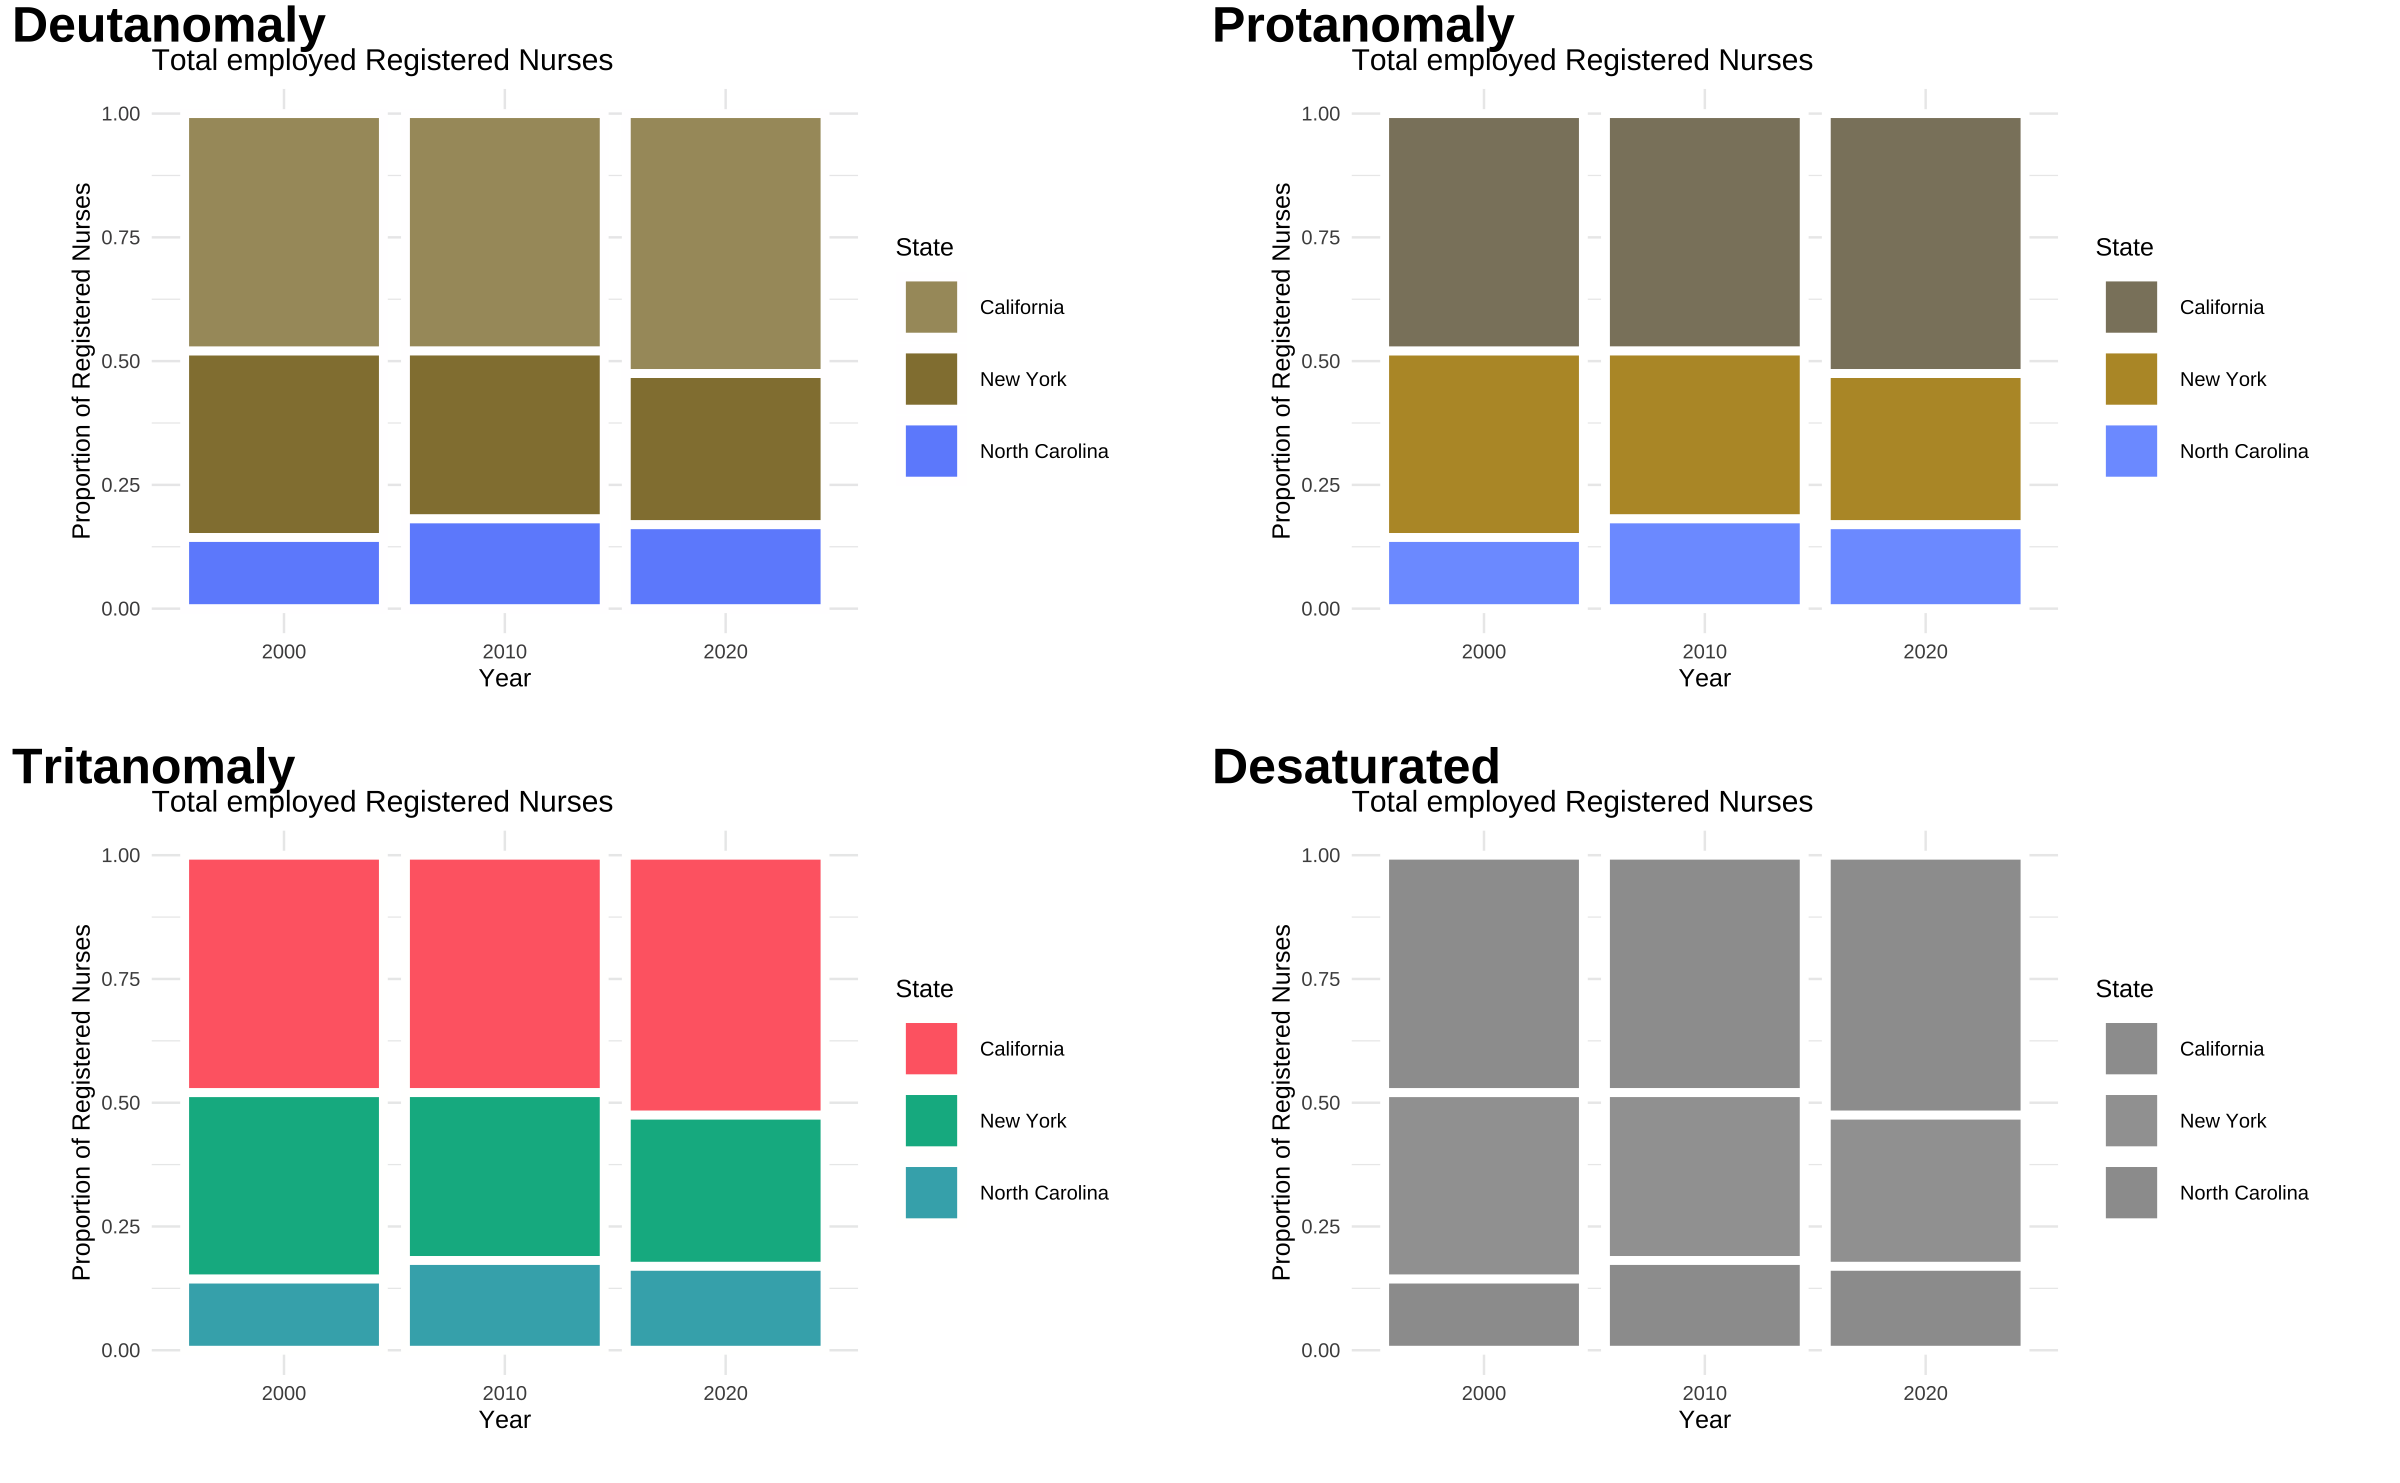
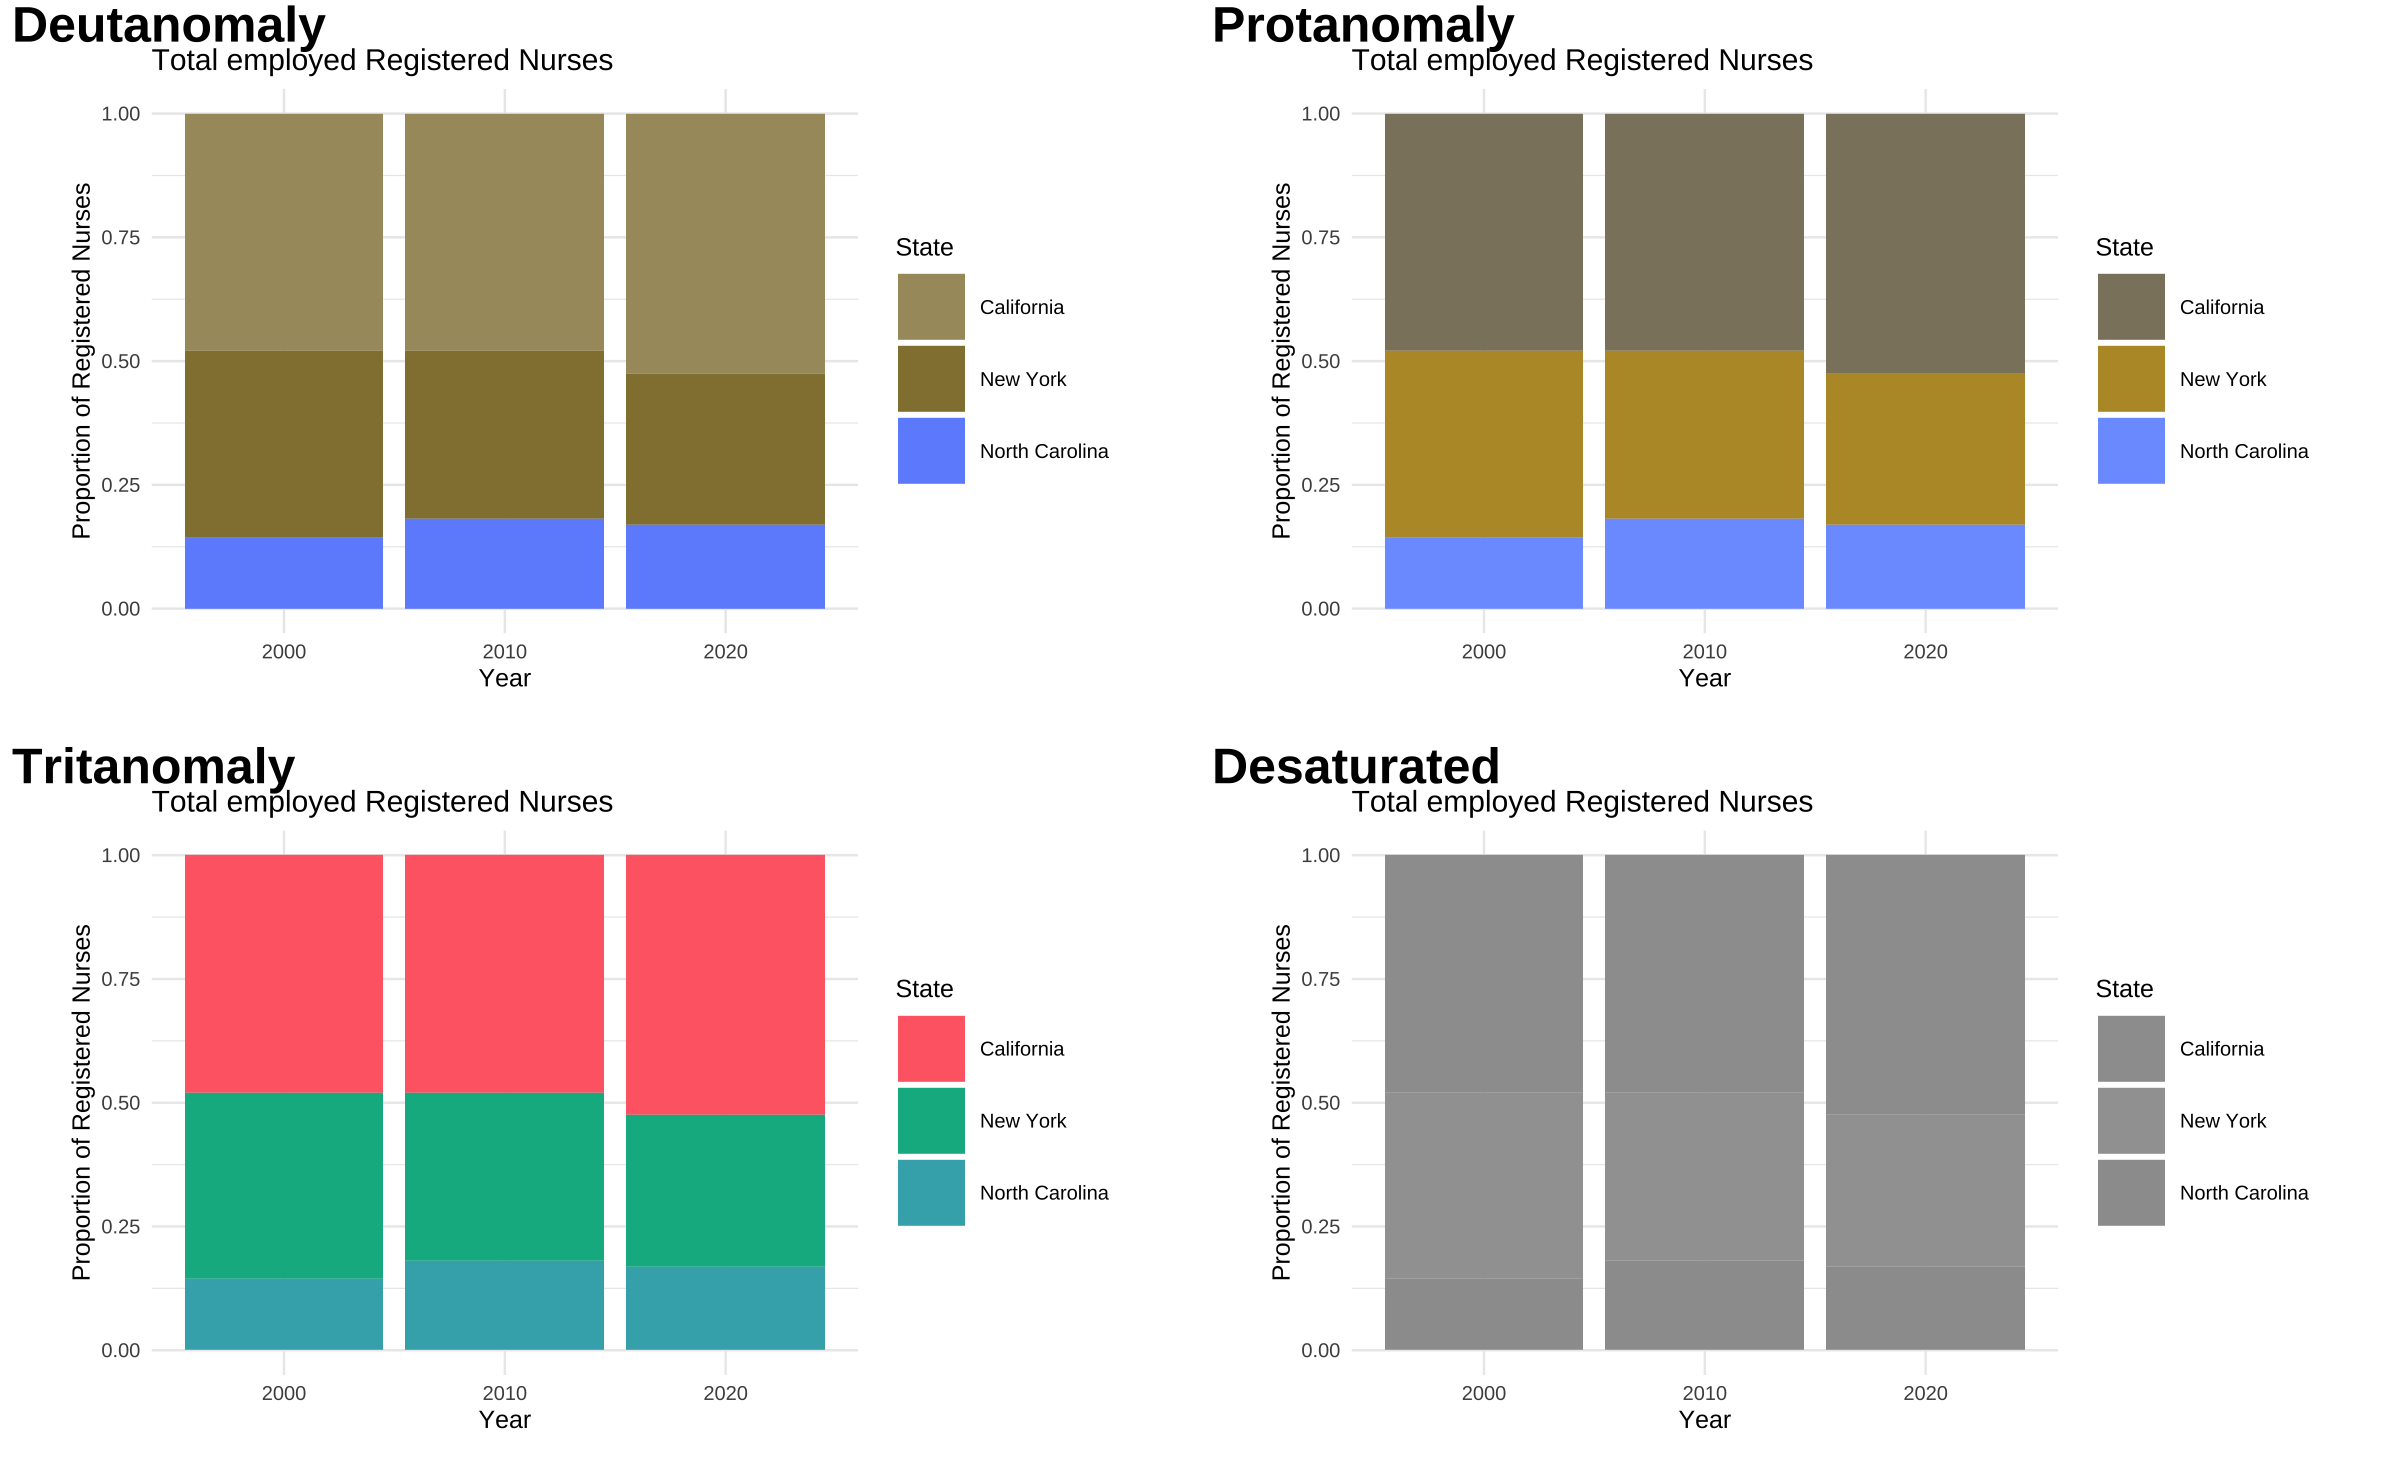
Final tweaks of accessibility slides

diff --git a/18-accessibility/index.html b/18-accessibility/index.html
@@ -56,9 +56,9 @@ options(dplyr.print_max = 6, dplyr.print_min = 6)
 
 ---
 
-class: middle, hand, large
+class: middle, large
 
-do you remember?
+.hand[do you remember?]
 
 ---
 
@@ -749,6 +749,10 @@ Scatter plots are among the more difficult graphs to describe, especially if the
 Write alt text for the scatterplot above.
 ]
 
+&lt;!--
+The figure is titled "Median hourly wage of Registered Nurses". It is a scatter plot with points for each of the 50 U.S. states from 1998 to 2008. The horizontal axis is labeled "Unemployment rate", beginning around 2% up to 14%. The horizontal axis is labelled "Median hourly wage", beginning with amounts under $20 up to approximately $50. The pattern is hard to discern but appears to show a positive correlation between the variables. As unemployment rate increases the median hourly wage also slightly increases. There is more variability in median hourly wage for unemployment rates below 7%.
+--&gt;
+
 ---
 
 ## Recommended reading
@@ -808,7 +812,15 @@ nurses_subset %&gt;%
 
 ## The default ggplot2 color scale
 
-&lt;img src="index_files/figure-html/default-ggplot2-1.png" width="80%" style="display: block; margin: auto;" /&gt;
+.panelset.sideways[
+.panel[.panel-name[Original]
+&lt;img src="index_files/figure-html/default-ggplot2-1.png" width="100%" style="display: block; margin: auto;" /&gt;
+]
+
+.panel[.panel-name[Vision-impaired]
+&lt;img src="index_files/figure-html/unnamed-chunk-10-1.png" width="100%" style="display: block; margin: auto;" /&gt;
+]
+]
 
 ---
 
@@ -826,10 +838,11 @@ nurses_subset %&gt;%
 
 - Background and foreground text should have sufficient contrast to be distinguishable by users with different vision
 
-- Web app for checking color contrast checking: [Colour Contrast Analyser](https://www.tpgi.com/color-contrast-checker/)
+- Web app for checking color contrast checking: [Color Contrast Analyser](https://www.tpgi.com/color-contrast-checker/)
 
 - An WIP R package for checking for color contrast: [**coloratio**](https://matt-dray.github.io/coloratio)
 
+.small[
 
 ```r
 cr_get_ratio("black", "white")
@@ -854,6 +867,7 @@ cr_get_ratio("black", "gray10")
 ```
 ## [1] 1.206596
 ```
+]
 
 ---
 
@@ -863,7 +877,7 @@ Use shape *and* color where possible
 
 --
 
-&lt;img src="index_files/figure-html/unnamed-chunk-11-1.png" width="80%" style="display: block; margin: auto;" /&gt;
+&lt;img src="index_files/figure-html/unnamed-chunk-12-1.png" width="80%" style="display: block; margin: auto;" /&gt;
 
 ---
 
@@ -879,13 +893,13 @@ Use shape *and* color where possible
 
 ## Without direct labeling
 
-&lt;img src="index_files/figure-html/unnamed-chunk-12-1.png" width="80%" style="display: block; margin: auto;" /&gt;
+&lt;img src="index_files/figure-html/unnamed-chunk-13-1.png" width="80%" style="display: block; margin: auto;" /&gt;
 
 ---
 
 ## With direct labeling
 
-&lt;img src="index_files/figure-html/unnamed-chunk-13-1.png" width="80%" style="display: block; margin: auto;" /&gt;
+&lt;img src="index_files/figure-html/unnamed-chunk-14-1.png" width="80%" style="display: block; margin: auto;" /&gt;
 
 ---
 
@@ -899,13 +913,13 @@ Use shape *and* color where possible
 
 ## Without whitespace
 
-&lt;img src="index_files/figure-html/unnamed-chunk-14-1.png" width="80%" style="display: block; margin: auto;" /&gt;
+&lt;img src="index_files/figure-html/unnamed-chunk-15-1.png" width="80%" style="display: block; margin: auto;" /&gt;
 
 ---
 
 ## With whitespace
 
-&lt;img src="index_files/figure-html/unnamed-chunk-15-1.png" width="80%" style="display: block; margin: auto;" /&gt;
+&lt;img src="index_files/figure-html/unnamed-chunk-16-1.png" width="80%" style="display: block; margin: auto;" /&gt;
 
 ---
 
@@ -959,7 +973,7 @@ by the Center for Systems Science and Engineering (CSSE) at Johns Hopkins Univer
 class: middle
 
 .task[
-Revisit your Project 2 proposals with accessibility guidelines in place and use the remaining time for checking for and implementing as many of the accessibility guidelines as relevant to your project.
+Revisit your Project 2 materials with accessibility guidelines in place and use the remaining time for checking for and implementing as many of the accessibility guidelines as relevant to your project.
 ]
     </textarea>
 <style data-target="print-only">@media screen {.remark-slide-container{display:block;}.remark-slide-scaler{box-shadow:none;}}</style>
